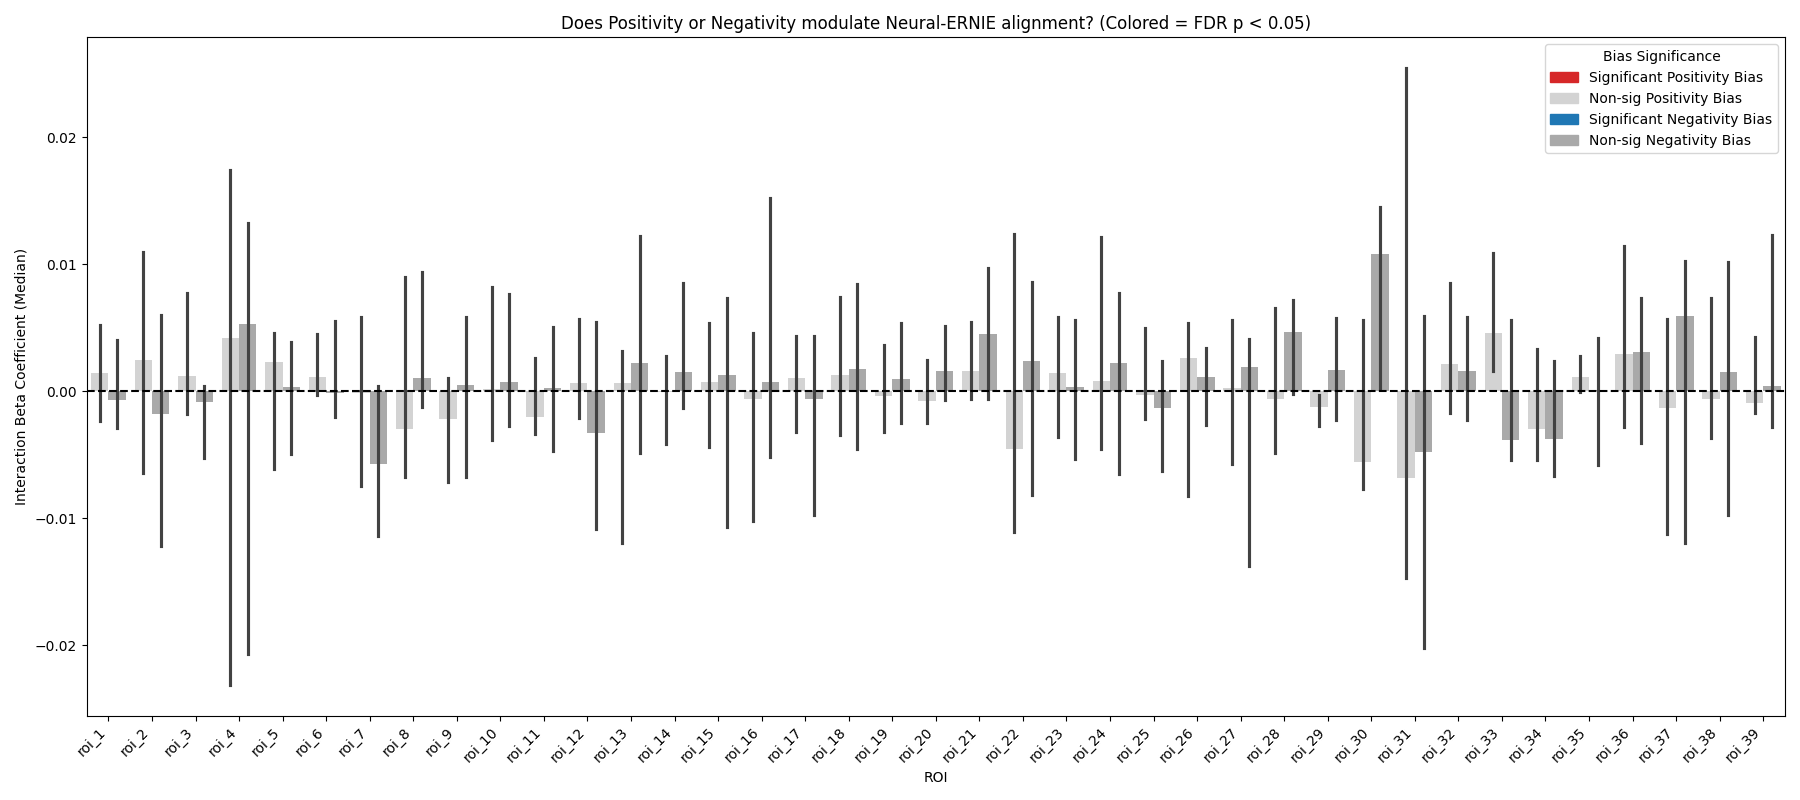
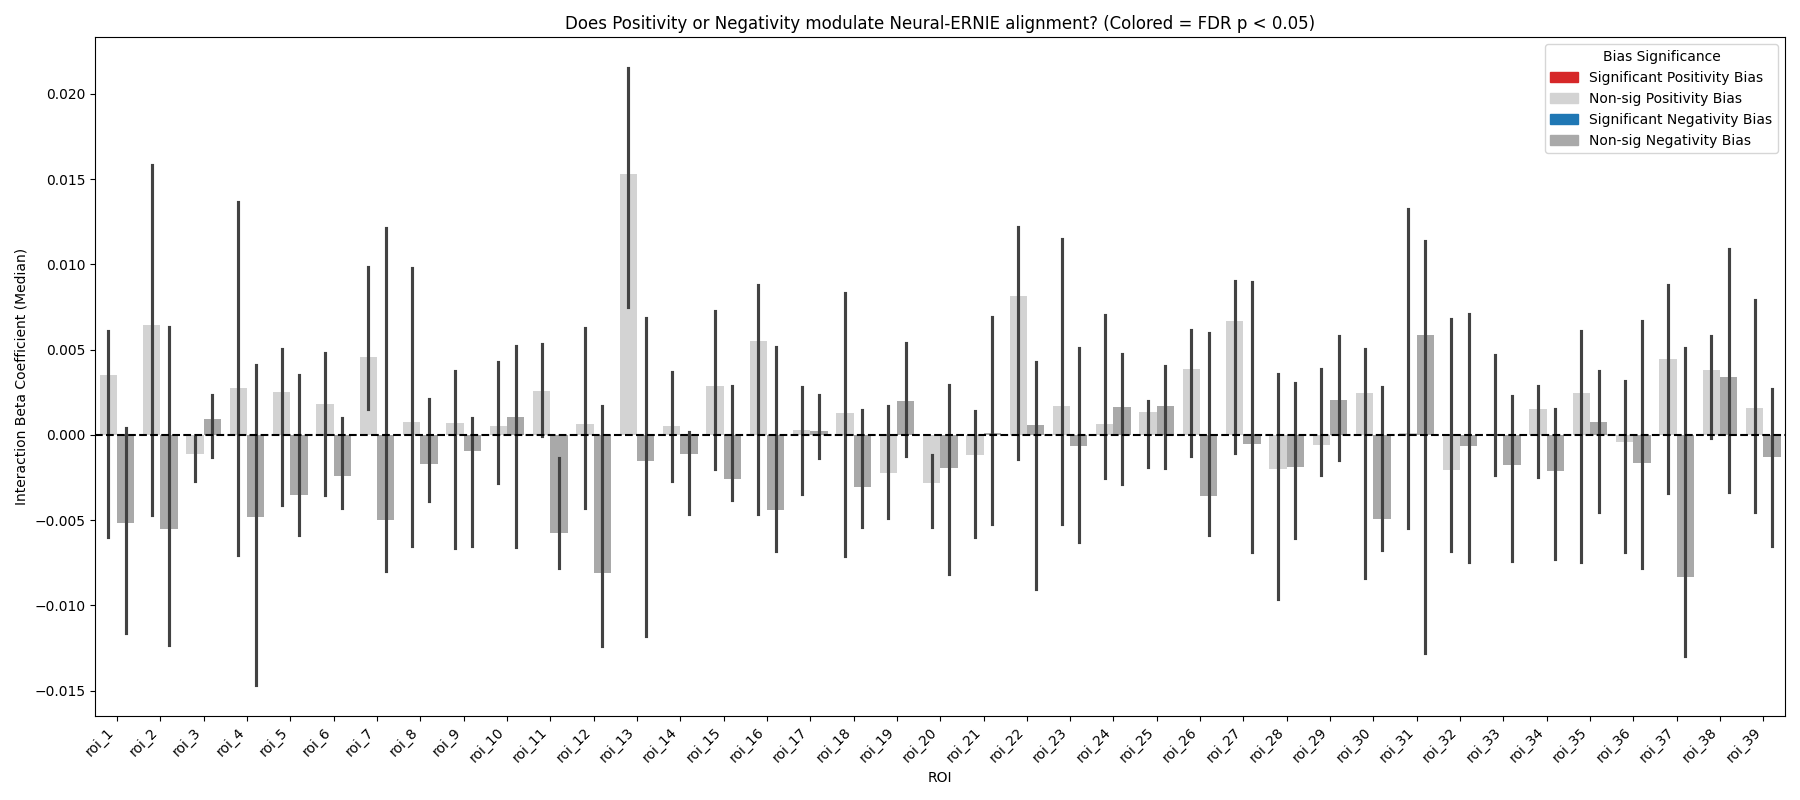
fixed issue with alignment of words and llm labels in 07; updated pngs

diff --git a/supplementary_analysis/07_rsa_emotion.py b/supplementary_analysis/07_rsa_emotion.py
@@ -48,11 +48,11 @@ from statsmodels.stats.multitest import multipletests
 ########################################################################
 # Configuration
 ########################################################################
-LLM_NAME = 'BERT'  # Change to your LLM of interest (BERT, ERNIE, Electra, GPT2)
+LLM_NAME = 'GPT2'  # Change to your LLM of interest (BERT, ERNIE, Electra, GPT2)
 
-PROJECT_ROOT = Path("/Volumes/T9/Birgit")  # the only path you need to set
+PROJECT_ROOT = Path("/home/f_moldovan/projects/case_studies")  # the only path you need to set
 DATA_DIR = PROJECT_ROOT / "data"
-BIDS_DIR = DATA_DIR / "ds004301"
+BIDS_DIR = DATA_DIR / "bids"
 DERIVATIVES_DIR = BIDS_DIR / "derivatives"
 ANNOTATIONS_DIR = DERIVATIVES_DIR / "annotations"
 NEURAL_SIM_DIR = DERIVATIVES_DIR / "similarity_matrices"
@@ -75,17 +75,16 @@ os.makedirs(VISUAL_OUTPUT_DIR, exist_ok=True)
 llm_matrix_file = np.load(LLM_SIM_FILE, allow_pickle=True)
 # Assuming LLM_SIM_FILE actually contains a similarity matrix, not dissimilarity
 llm_matrix = distance.squareform(llm_matrix_file['data'])
+
 llm_labels = llm_matrix_file['labels']
 
 emotion_df = pd.read_csv(EMOTION_RATINGS_FILE)
-# Build per-label arrays via dict lookup instead of .loc[llm_labels], which would
-# expand duplicated labels (some English translations cover multiple Chinese words).
-_pos_map = dict(zip(emotion_df['word'], emotion_df['positivity']))
-_neg_map = dict(zip(emotion_df['word'], emotion_df['negativity']))
-llm_labels_str = [str(l) for l in llm_labels]
-pos_scores = np.array([_pos_map[l] for l in llm_labels_str])
-neg_scores = np.array([_neg_map[l] for l in llm_labels_str])
-n_words = len(pos_scores)  # exactly 672
+print(llm_labels == emotion_df['word'].values)  # Check if the order of words matches (alignment or not) -> it does
+
+# Get the two independent emotion dimensions
+pos_scores = emotion_df['positivity'].values
+neg_scores = emotion_df['negativity'].values
+n_words = len(pos_scores)  # exactly 672 words
 
 ########################################################################
 # Create Continuous Pairwise Intensity Matrices

diff --git a/source_code/03_neural_similarities.py b/source_code/03_neural_similarities.py
@@ -32,7 +32,7 @@ MASK_PATH = os.path.join(BASE_DIR, 'data', 'brain_parcellations', 'emotion_parce
 OUT_DIR = os.path.join(BIDS_DIR, 'derivatives', 'similarity_matrices') # Directory where we will save the computed similarity matrices for each subject and ROI.
 FIG_DIR = os.path.join(BASE_DIR, 'reports', 'figures', 'examples') # Directory to save example figures of ROI masks.
 PLOT_DIR = os.path.join(BASE_DIR, 'reports', 'plots', 'examples') # Directory to save example plots of similarity matrices.
-EXAMPLE_ROI = 20 # We will visualize the similarity matrix and actual mask for this ROI as an example. You can change this to visualize different ROIs.
+EXAMPLE_ROI = 28 # We will visualize the similarity matrix and actual mask for this ROI as an example. You can change this to visualize different ROIs.
 
 #####################################################################
 # Helper functions

diff --git a/source_code/07_rsa_emotion.py b/source_code/07_rsa_emotion.py
@@ -59,12 +59,13 @@ np.random.seed(42)  # For reproducibility of bootstrapped confidence intervals
 def load_and_prepare_data(llm_sim_file, emotion_ratings_file):
     """Loads similarity matrix and emotion ratings, returning aligned structures."""
     llm_matrix_file = np.load(llm_sim_file, allow_pickle=True)
+
     # Assuming LLM_SIM_FILE actually contains a similarity matrix, not dissimilarity
     llm_matrix = distance.squareform(llm_matrix_file['data'])
     llm_labels = llm_matrix_file['labels']
 
     emotion_df = pd.read_csv(emotion_ratings_file)
-    emotion_df = emotion_df.set_index('word').loc[llm_labels].reset_index()
+    print(llm_labels == emotion_df['word'].values)  # Check if the order of words matches (alignment or not) -> it does
 
     # Get the two independent emotion dimensions
     pos_scores = emotion_df['positivity'].values
